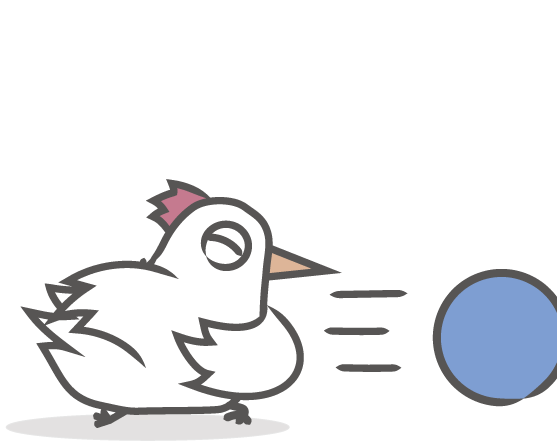
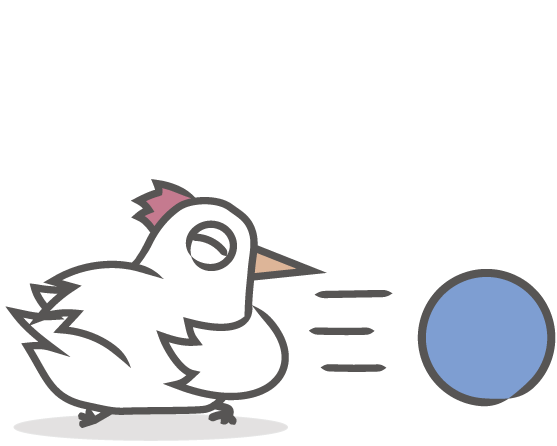
画像追加、差し替え

diff --git a/db/seeds.rb b/db/seeds.rb
@@ -3519,7 +3519,7 @@ cuts = [
   { event_set_name: '年始',                   derivation_number: 0, label: 'すすむ',           priority: 1, position: 4, message: 'ことしもよろしくね、〈たまご〉！',                                   character_image: 'temp-character/temp-nikoniko2.png', background_image: 'temp-background/temp-background.png' },
 
   { event_set_name: 'ブロックのおもちゃに夢中', derivation_number: 0, label: 'そっとする',      priority: 1, position: 1, message: '〈たまご〉はたのしそうにあそんでいる！',                character_image: 'temp-character/temp-building_blocks.png', background_image: 'temp-background/temp-background.png' },
-  { event_set_name: 'ブロックのおもちゃに夢中', derivation_number: 0, label: 'よしよしする',    priority: 1, position: 1, message: '〈たまご〉はうれしそう！',                             character_image: 'temp-character/temp-nikoniko.png', background_image: 'temp-background/temp-background.png' },
+  { event_set_name: 'ブロックのおもちゃに夢中', derivation_number: 0, label: 'よしよしする',    priority: 1, position: 1, message: '〈たまご〉はうれしそう！',                             character_image: 'temp-character/temp-building_blocks_nikoniko.png', background_image: 'temp-background/temp-background.png' },
   { event_set_name: 'ブロックのおもちゃに夢中', derivation_number: 0, label: 'ちょっかいをだす', priority: 1, position: 1, message: '〈たまご〉がおこってしまった！',                       character_image: 'temp-character/temp-okoru.png', background_image: 'temp-background/temp-background.png' },
   { event_set_name: 'ブロックのおもちゃに夢中', derivation_number: 0, label: 'ブロックをくずす', priority: 1, position: 1, message: 'あー！ほんとにブロックをくずしちゃった！これはひどい！', character_image: 'temp-character/temp-okoru.png', background_image: 'temp-background/temp-background.png' },
 
